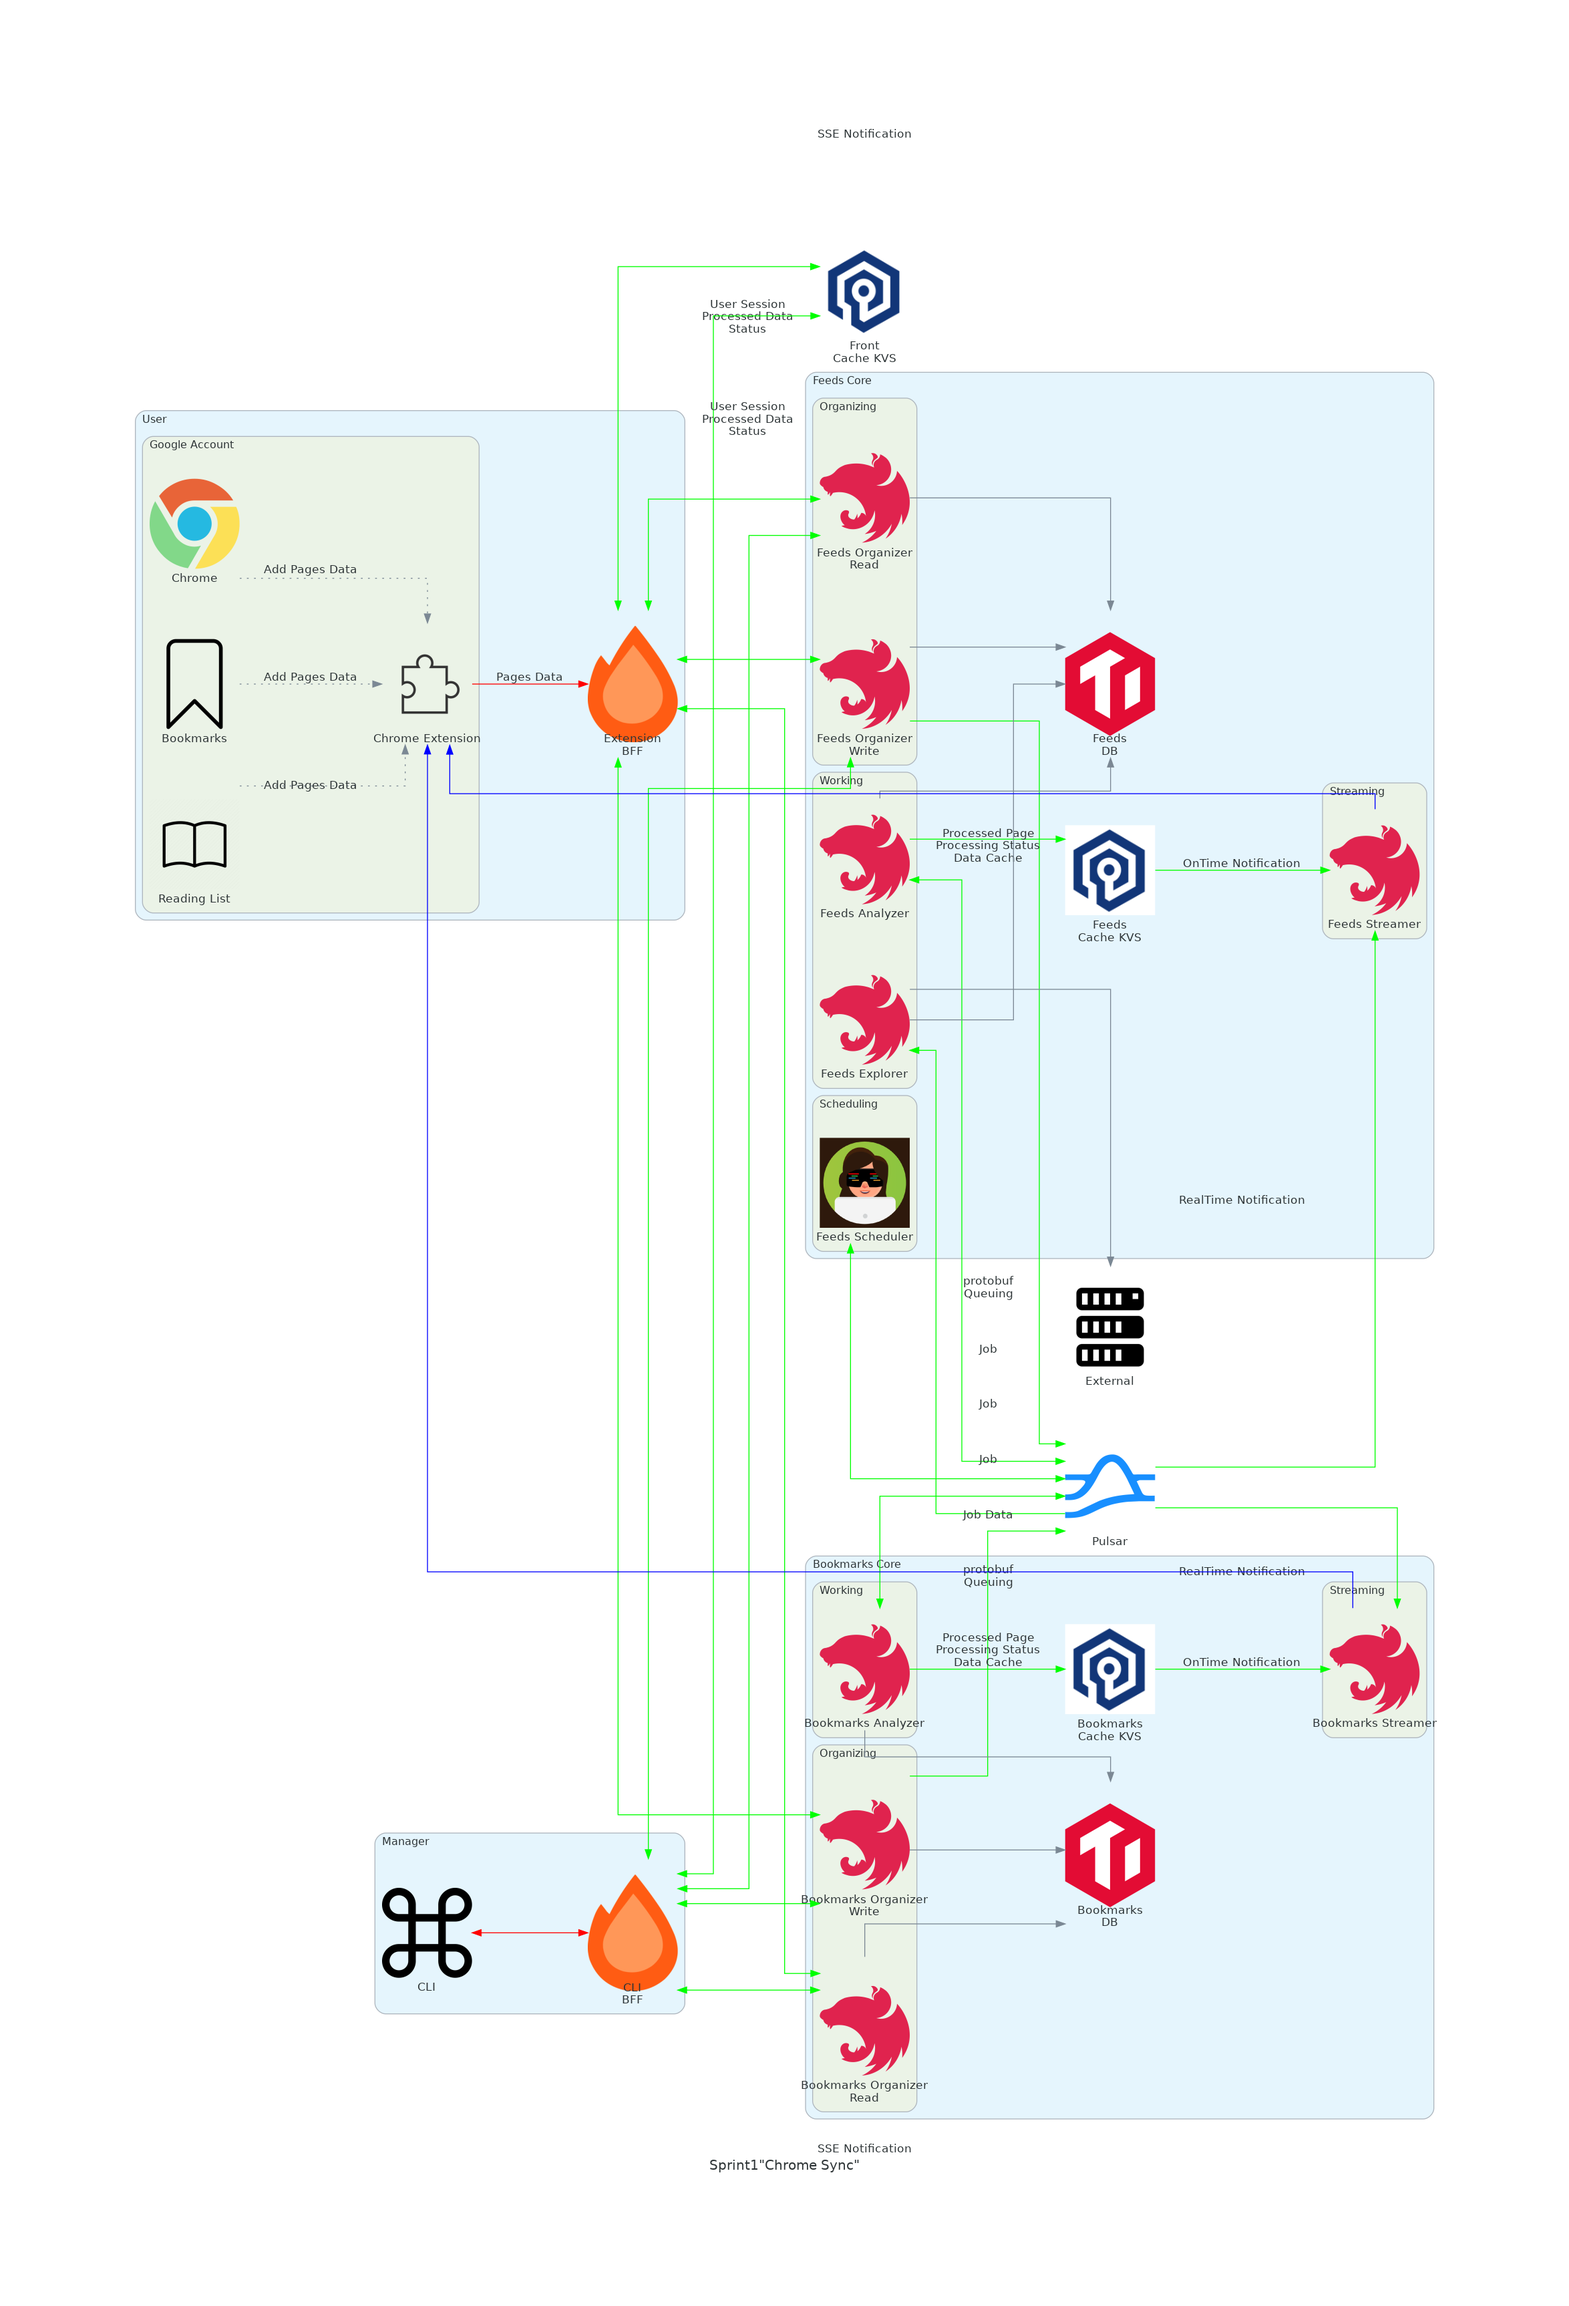
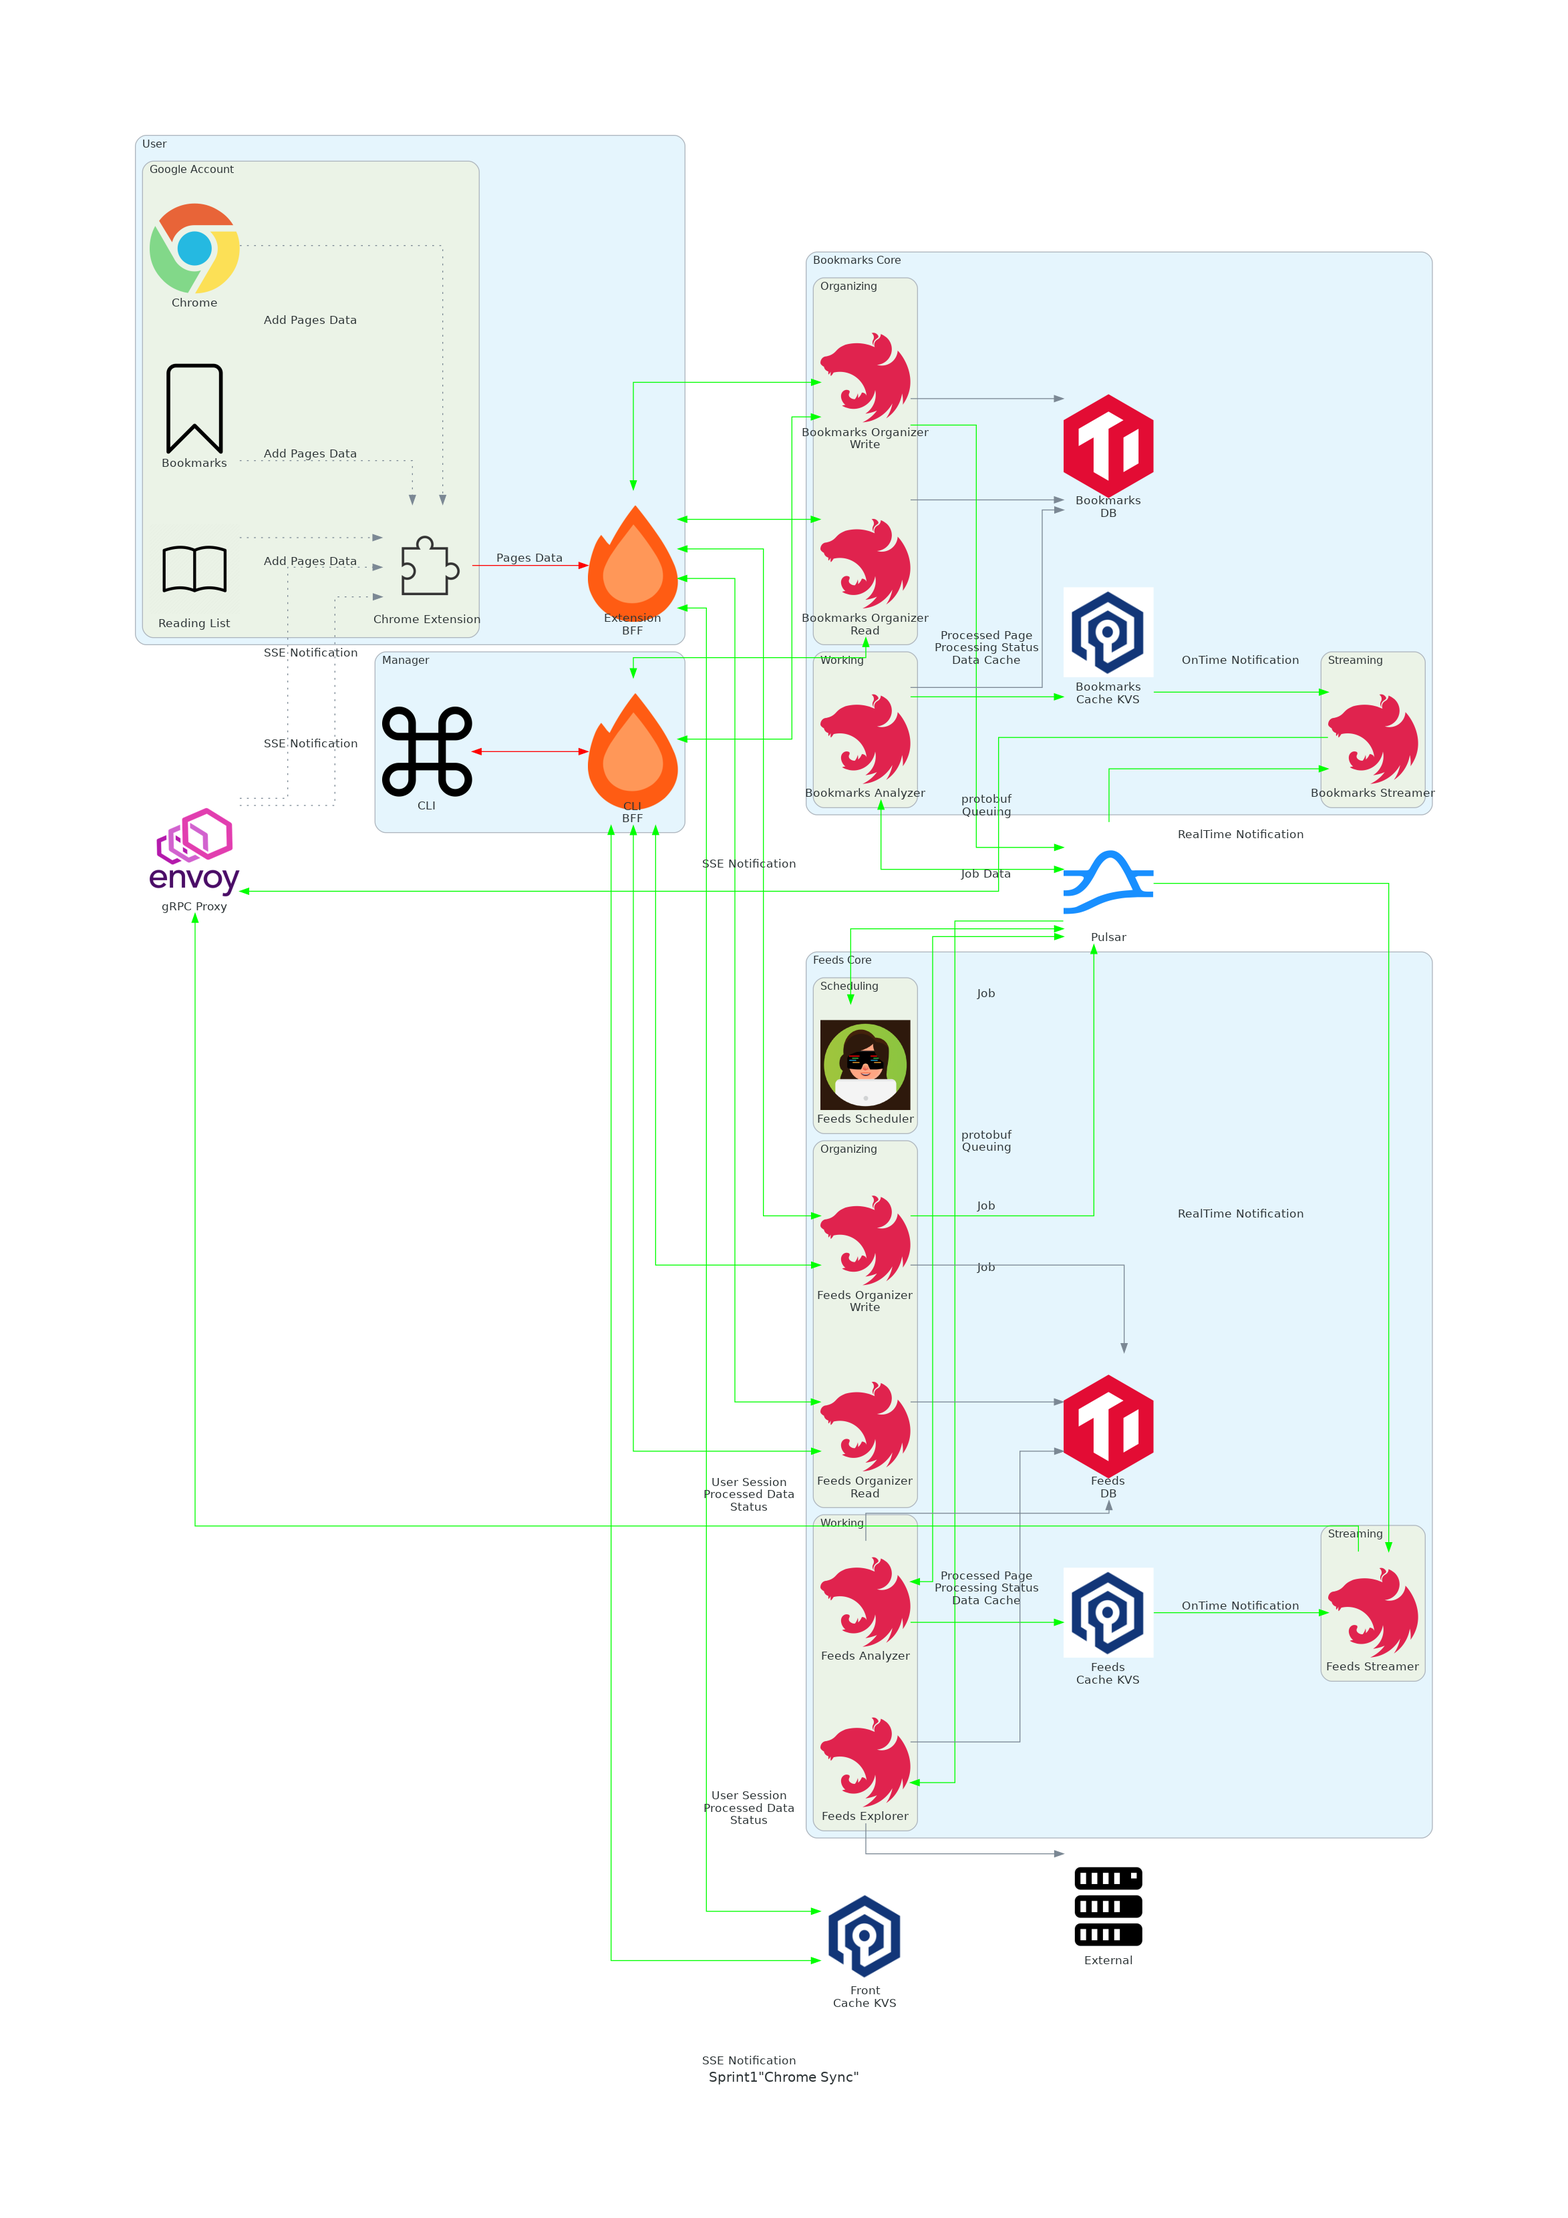
add envoy into architecture diagram

Changed region(s): [[0.0622, 0.062, 0.9331, 0.9615]]

diff --git a/docs/architectures.py b/docs/architectures.py
@@ -82,6 +82,9 @@ class IconCollection:
         "https://upload.wikimedia.org/wikipedia/commons/thumb/a/a0/Firefox_logo%2C_2019.svg/1200px-Firefox_logo%2C_2019.svg.png"
     )
     bree = IconData("https://avatars.githubusercontent.com/u/68016147")
+    envoy = IconData(
+        "https://seeklogo.com/images/E/envoy-proxy-logo-AA21B06AE5-seeklogo.com.png"
+    )
 
     @classmethod
     def __class_getitem__(cls, key: str) -> IconData:
@@ -132,6 +135,9 @@ class NodeCollection:
 
     def bree(self, name: str = "Bree"):
         return Custom(name, icon_path=IconCollection.bree.icon_path)
+
+    def envoy(self, name: str = "Envoy"):
+        return Custom(name, icon_path=IconCollection.envoy.icon_path)
 
     def external(self, name: str = "External"):
         return Server(name)
@@ -184,6 +190,7 @@ class Sprint1:
         ):
             pub_sub_queue = nodes.pulsar()
             front_cache = nodes.valkey("Front\nCache KVS")
+            proxy = nodes.envoy("gRPC Proxy")
             external = nodes.external()
 
             with Cluster("User"):
@@ -276,7 +283,9 @@ class Sprint1:
                 >> pub_sub_queue
                 >> edges.protobuf("RealTime Notification")
                 >> bookmarks_streamer
-                >> edges.trpc("SSE Notification")
+                >> edges.protobuf("SSE Notification")
+                >> proxy
+                >> edges.data("SSE Notification")
                 >> extension
             )
 
@@ -286,7 +295,9 @@ class Sprint1:
                 >> pub_sub_queue
                 >> edges.protobuf("RealTime Notification")
                 >> feeds_streamer
-                >> edges.trpc("SSE Notification")
+                >> edges.protobuf("SSE Notification")
+                >> proxy
+                >> edges.data("SSE Notification")
                 >> extension
             )
 
